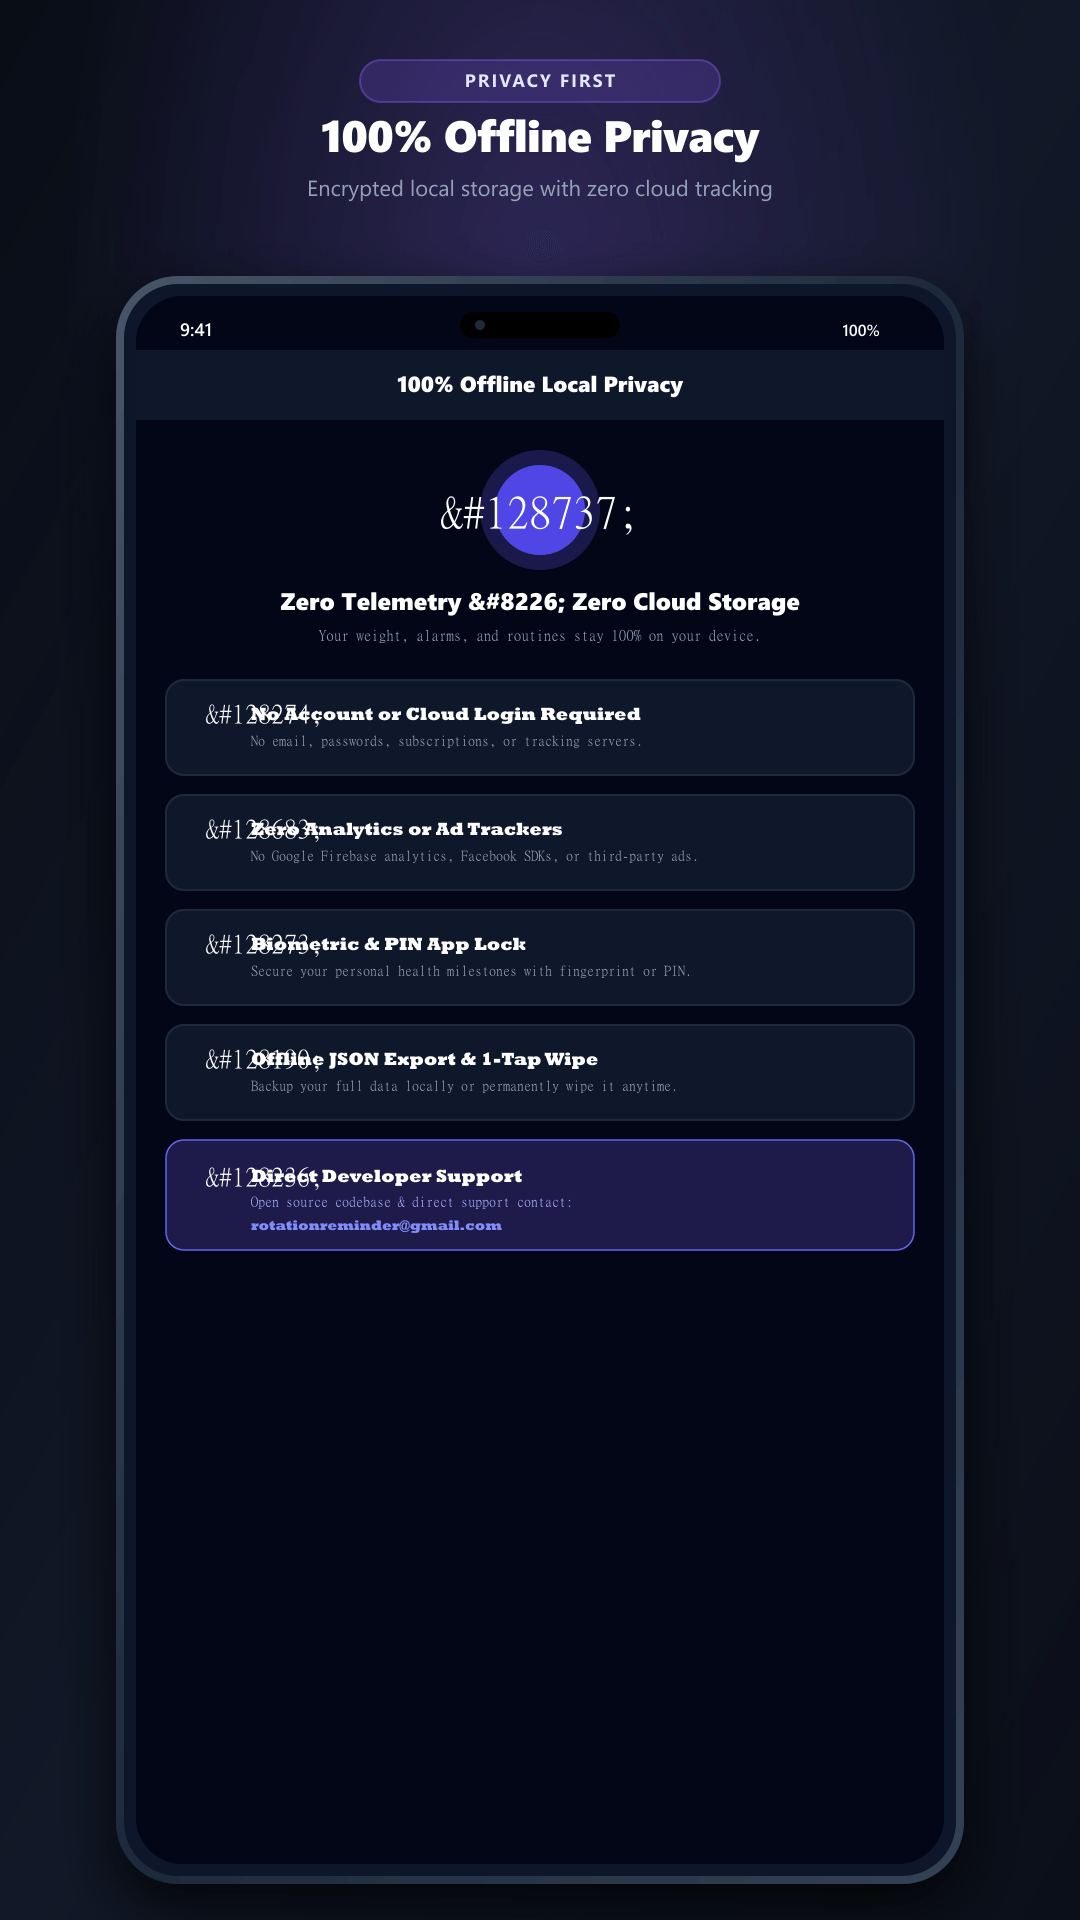
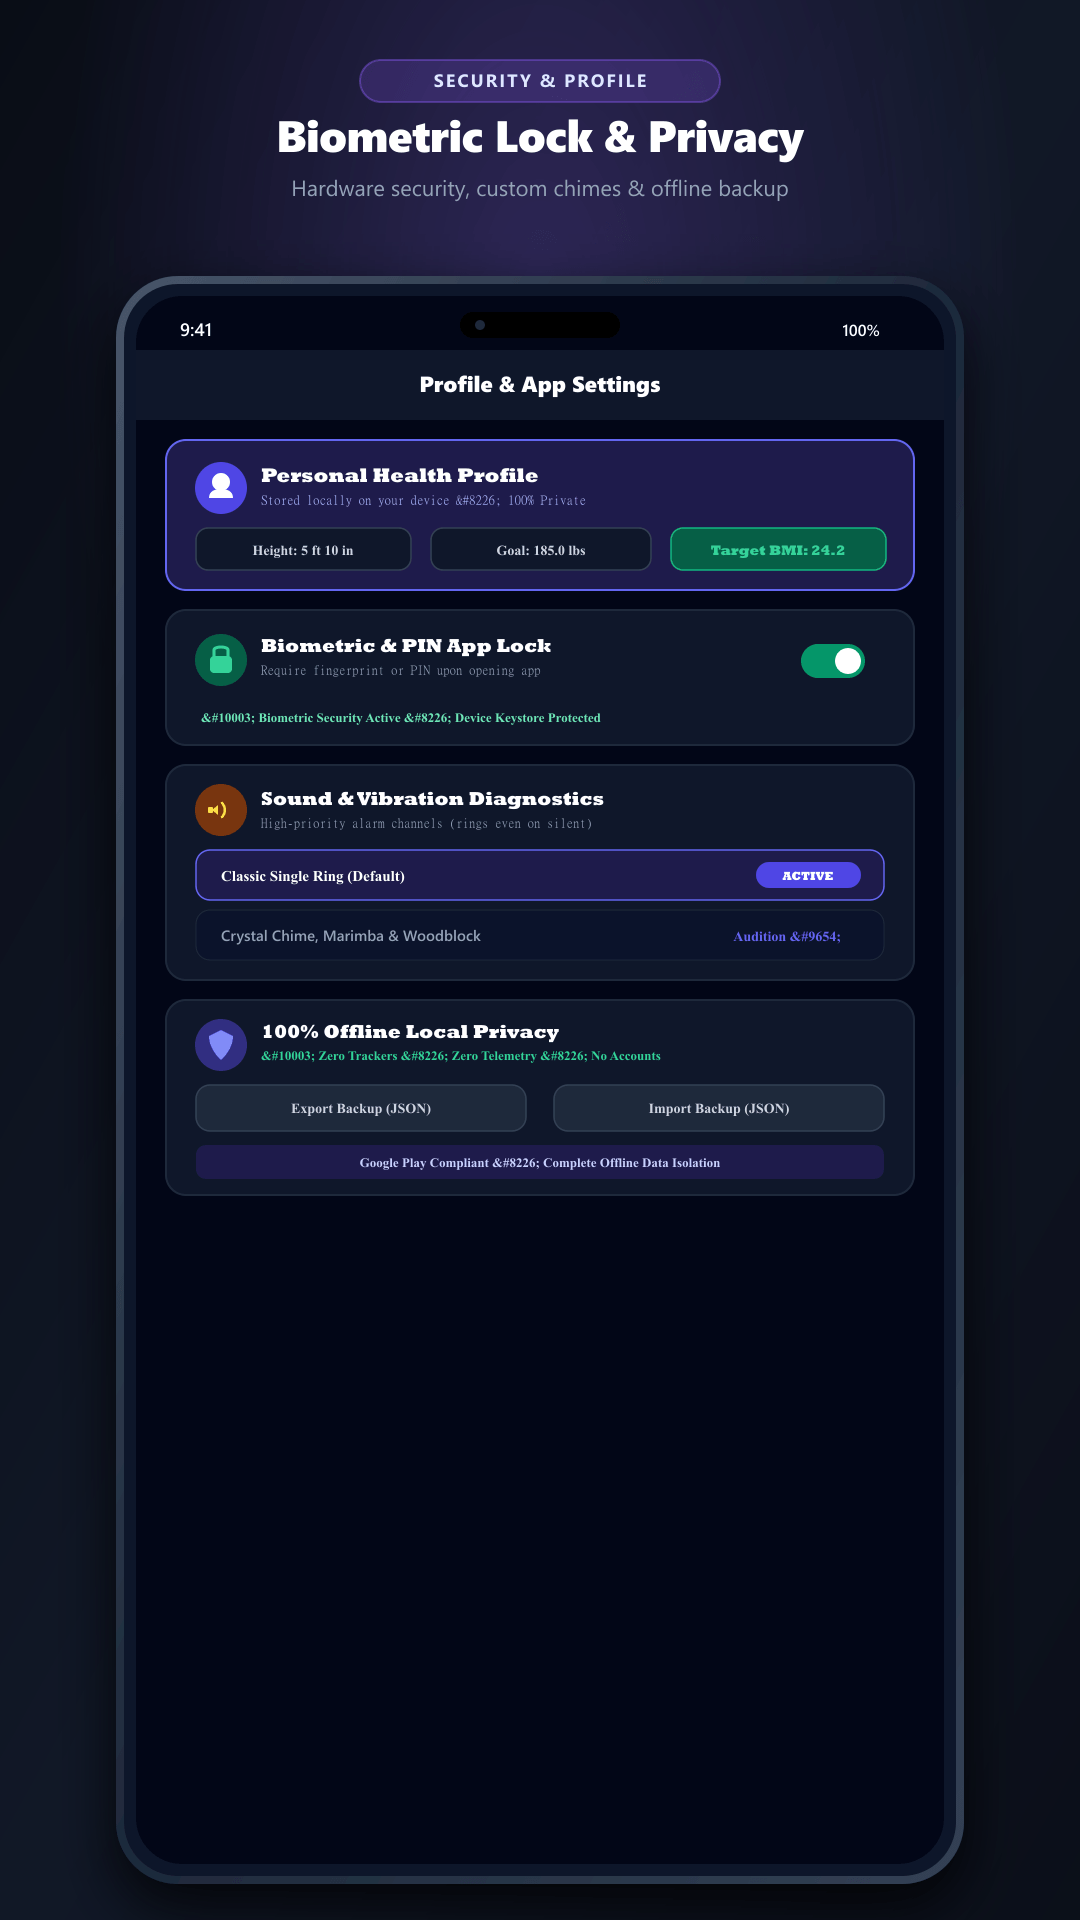
fix(assets): redesign screenshot 4 with authentic vector-based UI for Profile & Biometric Security

diff --git a/scripts/generate-screenshots.js b/scripts/generate-screenshots.js
@@ -358,57 +358,108 @@ const screen3Content = `
   </g>
 `;
 
-// SCREEN 4: PRIVACY & LOCAL SECURITY
+// SCREEN 4: PROFILE, BIOMETRIC SECURITY & 100% OFFLINE DATA
 const screen4Content = `
   <!-- Header -->
   <rect x="0" y="0" width="808" height="70" fill="#0F172A"/>
-  <text x="404" y="42" fill="#FFFFFF" font-family="sans-serif" font-size="22" font-weight="900" text-anchor="middle">100% Offline Local Privacy</text>
+  <text x="404" y="42" fill="#FFFFFF" font-family="sans-serif" font-size="22" font-weight="900" text-anchor="middle">Profile &amp; App Settings</text>
 
-  <!-- Hero Shield -->
-  <g transform="translate(404, 160)">
-    <circle cx="0" cy="0" r="60" fill="#312E81" fill-opacity="0.5"/>
-    <circle cx="0" cy="0" r="45" fill="#4F46E5"/>
-    <text x="0" y="16" fill="#FFFFFF" font-family="sans-serif" font-size="44" text-anchor="middle">&#128737;</text>
-  </g>
-  <text x="404" y="260" fill="#FFFFFF" font-family="sans-serif" font-size="24" font-weight="900" text-anchor="middle">Zero Telemetry &#8226; Zero Cloud Storage</text>
-  <text x="404" y="290" fill="#94A3B8" font-family="sans-serif" font-size="15" text-anchor="middle">Your weight, alarms, and routines stay 100% on your device.</text>
+  <!-- Card 1: Personal Profile Summary -->
+  <g transform="translate(30, 90)">
+    <rect width="748" height="150" rx="20" fill="#1E1B4B" stroke="#6366F1" stroke-width="2"/>
+    <!-- Avatar circle -->
+    <circle cx="55" cy="48" r="26" fill="#4F46E5"/>
+    <circle cx="55" cy="42" r="9" fill="#FFFFFF"/>
+    <path d="M 43,58 C 43,51 49,49 55,49 C 61,49 67,51 67,58 Z" fill="#FFFFFF"/>
+    
+    <text x="95" y="42" fill="#FFFFFF" font-family="sans-serif" font-size="20" font-weight="800">Personal Health Profile</text>
+    <text x="95" y="64" fill="#A5B4FC" font-family="sans-serif" font-size="13">Stored locally on your device &#8226; 100% Private</text>
 
-  <!-- Feature Cards -->
-  <g transform="translate(30, 330)">
-    <rect width="748" height="95" rx="18" fill="#0F172A" stroke="#1E293B" stroke-width="2"/>
-    <text x="40" y="42" fill="#FFFFFF" font-family="sans-serif" font-size="26">&#128274;</text>
-    <text x="85" y="40" fill="#FFFFFF" font-family="sans-serif" font-size="18" font-weight="800">No Account or Cloud Login Required</text>
-    <text x="85" y="65" fill="#94A3B8" font-family="sans-serif" font-size="14">No email, passwords, subscriptions, or tracking servers.</text>
-  </g>
+    <!-- 3 Stat chips -->
+    <g transform="translate(30, 88)">
+      <rect width="215" height="42" rx="12" fill="#0F172A" stroke="#334155" stroke-width="1.5"/>
+      <text x="107" y="27" fill="#CBD5E1" font-family="sans-serif" font-size="14" font-weight="700" text-anchor="middle">Height: 5 ft 10 in</text>
 
-  <g transform="translate(30, 445)">
-    <rect width="748" height="95" rx="18" fill="#0F172A" stroke="#1E293B" stroke-width="2"/>
-    <text x="40" y="42" fill="#FFFFFF" font-family="sans-serif" font-size="26">&#128683;</text>
-    <text x="85" y="40" fill="#FFFFFF" font-family="sans-serif" font-size="18" font-weight="800">Zero Analytics or Ad Trackers</text>
-    <text x="85" y="65" fill="#94A3B8" font-family="sans-serif" font-size="14">No Google Firebase analytics, Facebook SDKs, or third-party ads.</text>
-  </g>
+      <rect x="235" y="0" width="220" height="42" rx="12" fill="#0F172A" stroke="#334155" stroke-width="1.5"/>
+      <text x="345" y="27" fill="#CBD5E1" font-family="sans-serif" font-size="14" font-weight="700" text-anchor="middle">Goal: 185.0 lbs</text>
 
-  <g transform="translate(30, 560)">
-    <rect width="748" height="95" rx="18" fill="#0F172A" stroke="#1E293B" stroke-width="2"/>
-    <text x="40" y="42" fill="#FFFFFF" font-family="sans-serif" font-size="26">&#128273;</text>
-    <text x="85" y="40" fill="#FFFFFF" font-family="sans-serif" font-size="18" font-weight="800">Biometric &amp; PIN App Lock</text>
-    <text x="85" y="65" fill="#94A3B8" font-family="sans-serif" font-size="14">Secure your personal health milestones with fingerprint or PIN.</text>
+      <rect x="475" y="0" width="215" height="42" rx="12" fill="#065F46" stroke="#10B981" stroke-width="1.5"/>
+      <text x="582" y="27" fill="#34D399" font-family="sans-serif" font-size="14" font-weight="800" text-anchor="middle">Target BMI: 24.2</text>
+    </g>
   </g>
 
-  <g transform="translate(30, 675)">
-    <rect width="748" height="95" rx="18" fill="#0F172A" stroke="#1E293B" stroke-width="2"/>
-    <text x="40" y="42" fill="#FFFFFF" font-family="sans-serif" font-size="26">&#128190;</text>
-    <text x="85" y="40" fill="#FFFFFF" font-family="sans-serif" font-size="18" font-weight="800">Offline JSON Export &amp; 1-Tap Wipe</text>
-    <text x="85" y="65" fill="#94A3B8" font-family="sans-serif" font-size="14">Backup your full data locally or permanently wipe it anytime.</text>
+  <!-- Card 2: Biometric App Lock -->
+  <g transform="translate(30, 260)">
+    <rect width="748" height="135" rx="20" fill="#0F172A" stroke="#1E293B" stroke-width="2"/>
+    <!-- Lock vector icon -->
+    <circle cx="55" cy="50" r="26" fill="#065F46"/>
+    <rect x="44" y="46" width="22" height="17" rx="4" fill="#34D399"/>
+    <path d="M 48,46 V 40 C 48,36 62,36 62,40 V 46" fill="none" stroke="#34D399" stroke-width="3" stroke-linecap="round"/>
+    
+    <text x="95" y="42" fill="#FFFFFF" font-family="sans-serif" font-size="19" font-weight="800">Biometric &amp; PIN App Lock</text>
+    <text x="95" y="64" fill="#94A3B8" font-family="sans-serif" font-size="13">Require fingerprint or PIN upon opening app</text>
+
+    <!-- Active Toggle Switch -->
+    <g transform="translate(635, 34)">
+      <rect width="64" height="34" rx="17" fill="#059669"/>
+      <circle cx="47" cy="17" r="13" fill="#FFFFFF"/>
+    </g>
+
+    <!-- Sub note -->
+    <text x="35" y="112" fill="#6EE7B7" font-family="sans-serif" font-size="13" font-weight="700">&#10003; Biometric Security Active &#8226; Device Keystore Protected</text>
   </g>
 
-  <!-- Support Card -->
-  <g transform="translate(30, 790)">
-    <rect width="748" height="110" rx="18" fill="#1E1B4B" stroke="#6366F1" stroke-width="1.5"/>
-    <text x="40" y="45" fill="#FFFFFF" font-family="sans-serif" font-size="26">&#128236;</text>
-    <text x="85" y="42" fill="#FFFFFF" font-family="sans-serif" font-size="18" font-weight="800">Direct Developer Support</text>
-    <text x="85" y="66" fill="#A5B4FC" font-family="sans-serif" font-size="14">Open source codebase &amp; direct support contact:</text>
-    <text x="85" y="90" fill="#818CF8" font-family="sans-serif" font-size="14" font-weight="800">rotationreminder@gmail.com</text>
+  <!-- Card 3: Sound & Vibration Customization -->
+  <g transform="translate(30, 415)">
+    <rect width="748" height="215" rx="20" fill="#0F172A" stroke="#1E293B" stroke-width="2"/>
+    <!-- Speaker vector icon -->
+    <circle cx="55" cy="45" r="26" fill="#78350F"/>
+    <polygon points="46,45 52,40 52,50" fill="#FDE047"/>
+    <rect x="42" y="42" width="5" height="6" rx="1" fill="#FDE047"/>
+    <path d="M 56,38 A 10,10 0 0,1 56,52" fill="none" stroke="#FDE047" stroke-width="2.5" stroke-linecap="round"/>
+    
+    <text x="95" y="40" fill="#FFFFFF" font-family="sans-serif" font-size="19" font-weight="800">Sound &amp; Vibration Diagnostics</text>
+    <text x="95" y="62" fill="#94A3B8" font-family="sans-serif" font-size="13">High-priority alarm channels (rings even on silent)</text>
+
+    <!-- Ringtones list rows -->
+    <g transform="translate(30, 85)">
+      <!-- Row 1: Selected Ringtone -->
+      <rect width="688" height="50" rx="14" fill="#1E1B4B" stroke="#6366F1" stroke-width="1.5"/>
+      <text x="25" y="31" fill="#FFFFFF" font-family="sans-serif" font-size="15" font-weight="700">Classic Single Ring (Default)</text>
+      <rect x="560" y="12" width="105" height="26" rx="13" fill="#4F46E5"/>
+      <text x="612" y="30" fill="#FFFFFF" font-family="sans-serif" font-size="12" font-weight="800" text-anchor="middle">ACTIVE</text>
+
+      <!-- Row 2 -->
+      <g transform="translate(0, 60)">
+        <rect width="688" height="50" rx="14" fill="#0B132B" stroke="#1E293B" stroke-width="1"/>
+        <text x="25" y="31" fill="#94A3B8" font-family="sans-serif" font-size="15" font-weight="600">Crystal Chime, Marimba &amp; Woodblock</text>
+        <text x="645" y="31" fill="#6366F1" font-family="sans-serif" font-size="14" font-weight="700" text-anchor="end">Audition &#9654;</text>
+      </g>
+    </g>
+  </g>
+
+  <!-- Card 4: 100% Offline Privacy & Data Backup -->
+  <g transform="translate(30, 650)">
+    <rect width="748" height="195" rx="20" fill="#0F172A" stroke="#1E293B" stroke-width="2"/>
+    <!-- Shield icon -->
+    <circle cx="55" cy="45" r="26" fill="#312E81"/>
+    <path d="M 55,30 L 67,36 C 67,50 55,60 55,60 C 55,60 43,50 43,36 Z" fill="#818CF8"/>
+
+    <text x="95" y="38" fill="#FFFFFF" font-family="sans-serif" font-size="19" font-weight="800">100% Offline Local Privacy</text>
+    <text x="95" y="60" fill="#34D399" font-family="sans-serif" font-size="13" font-weight="700">&#10003; Zero Trackers &#8226; Zero Telemetry &#8226; No Accounts</text>
+
+    <!-- Action Buttons -->
+    <g transform="translate(30, 85)">
+      <rect width="330" height="46" rx="14" fill="#1E293B" stroke="#334155" stroke-width="1.5"/>
+      <text x="165" y="28" fill="#CBD5E1" font-family="sans-serif" font-size="14" font-weight="700" text-anchor="middle">Export Backup (JSON)</text>
+
+      <rect x="358" y="0" width="330" height="46" rx="14" fill="#1E293B" stroke="#334155" stroke-width="1.5"/>
+      <text x="523" y="28" fill="#CBD5E1" font-family="sans-serif" font-size="14" font-weight="700" text-anchor="middle">Import Backup (JSON)</text>
+    </g>
+
+    <!-- Verified Badge -->
+    <rect x="30" y="145" width="688" height="34" rx="10" fill="#1E1B4B"/>
+    <text x="374" y="167" fill="#C7D2FE" font-family="sans-serif" font-size="13" font-weight="700" text-anchor="middle">Google Play Compliant &#8226; Complete Offline Data Isolation</text>
   </g>
 `;
 
@@ -439,9 +490,9 @@ const screenshots = [
   },
   {
     name: 'screenshot-4-privacy.png',
-    tagline: 'PRIVACY FIRST',
-    title: '100% Offline Privacy',
-    subtitle: 'Encrypted local storage with zero cloud tracking',
+    tagline: 'SECURITY &amp; PROFILE',
+    title: 'Biometric Lock &amp; Privacy',
+    subtitle: 'Hardware security, custom chimes &amp; offline backup',
     content: screen4Content,
     accent: '#8B5CF6'
   }
